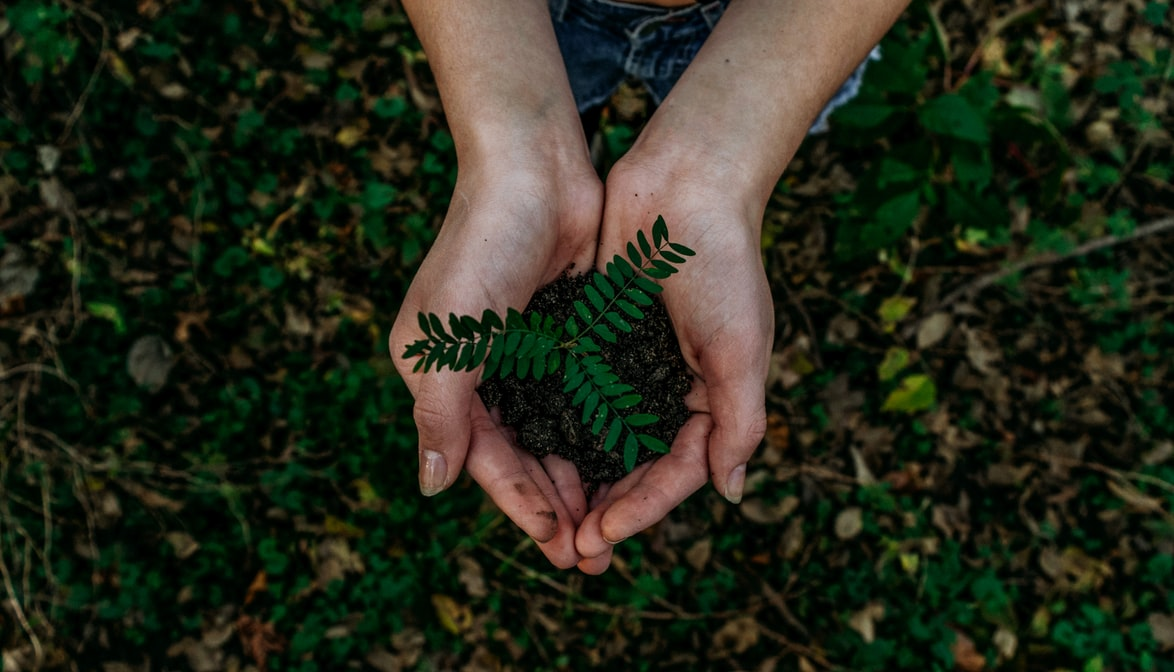
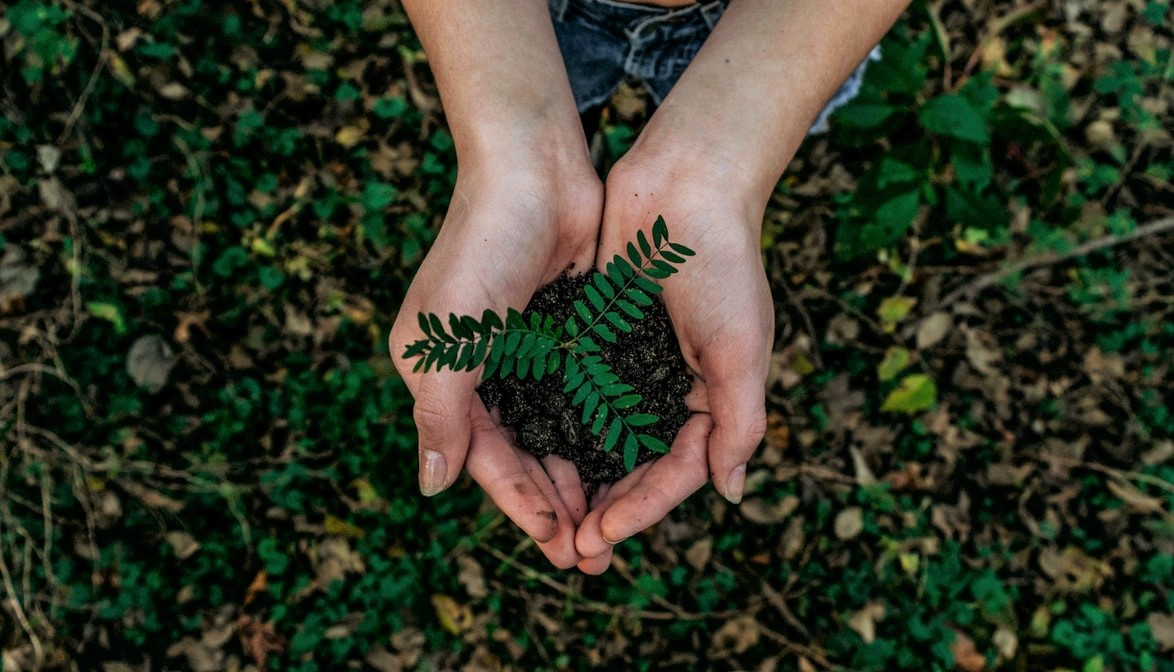
Improve title div and topnav for mobile

diff --git a/static/css/main.css b/static/css/main.css
@@ -1,3 +1,9 @@
+/* 
+To do:
+profile card layout center for < 3 cards
+title div format for small screens
+*/
+
 body{
     margin: 0px;
     font-family: 'Montserrat', Arial,Helvetica,sans-serif;
@@ -20,11 +26,12 @@ a{
     width: 100%;
     box-shadow: 0 8px 16px 0 rgba(0,0,0,0.2);
     color: white;
+    font-size: 3.5vw;
 }
 #topnav ul li{
     display: inline;
     float: left;
-    padding: 20px;
+    padding: 5%;
 }
 #topnav-title{
     background-color: #80ba52;
@@ -33,18 +40,36 @@ a{
 #topnav ul li a:link, a:active, a:hover, a:visited{
     color: white;
 }
+@media screen and (min-width: 500px) {/*large screens*/
+    #topnav ul {
+        font-size: 1.1em;
+    }
+    #topnav ul li {
+        padding: 20px;
+    }
+}
 #main{
     text-align: center;
 }
 
 #title{
     background-image: url("../images/planting.jpg");
+    background-position: center;
     background-repeat: no-repeat;
     background-size: cover;
     /* backdrop-filter: blur(8px);
     -webkit-backdrop-filter: blur(8px); */
-    font-size: 2vw;
+    font-size: 0.8em; /*small screens*/
     text-align: left;
+}
+#mainTitle{
+    font-size: 2.5em;
+    padding: 5% 0 2% 0;
+}
+@media screen and (min-width: 660px) {/*large screens*/
+    #title {
+        font-size: 2vw; 
+    }
 }
 hr{
     border: 0;
@@ -53,7 +78,7 @@ hr{
 
 #goalMsg{
     background-color: #80ba52;
-    padding: 10%;
+    padding: 10% 15%;
     text-align: left;
     color: white;
     line-height: 2em;
@@ -145,7 +170,7 @@ hr{
     padding: 2px 16px;
 }
 #supportOurMission{
-    background-image: url("../images/forest.jpg");
+    background-image: url("../images/trees-sky.jpg");
     background-repeat: no-repeat;
     background-size: cover;
     background-attachment: fixed;
@@ -160,9 +185,9 @@ hr{
     display: inline-block;
 }
 .overImage{
-    background-color: rgba(0,0,0,0.22);
+    background-color: rgba(0, 0, 0, 0.404);
     color: white;
-    padding: 100px 20%;
+    padding: 100px 15%;
     
 }
 #goalMetrics{
@@ -239,7 +264,10 @@ hr{
        max-width: calc(50% -  1em);
     }
 }
-/*3 cards*/
+/*3 cards
+
+Need to fix for fewer than 3 team members
+*/ 
 @media screen and (min-width: 68em) {
     .card {
         max-width: calc(34% - 1em);

diff --git a/templates/index.html b/templates/index.html
@@ -9,14 +9,14 @@
 {% block body %}
 <div id="title">
     <div class="overImage">
-        <h1>Tree-Plenish.</h1>
+        <h1 id="mainTitle">Tree-Plenish.</h1>
         <h1>Striving for sustainability at {{ event.school }}</h1>
         <hr />
         <div>
             <h4 style="display: inline-block">{{ event.deadline }}</h4>
             <h4 style="display: inline-block; float: right">{{ event.location }}</h4>
         </div>
-        <h4 style="text-align: center">
+        <h4 style="text-align: center; margin: 5% 10%">
             Help offset {{ event.school }}'s paper usage by requesting a tree to be planted in your yard
         </h4>
         <div style="text-align: center">
@@ -99,7 +99,7 @@
                 <img src="{{ tree.image }}" class="treeImg" alt="{{ tree.name }}">
                 <div class="container">
                     <h2>{{ tree.name }}</h2>
-                    <a href="{{ tree.link }}" class="button">Learn More</a>
+                    <a target="_blank" href="{{ tree.link }}" class="button">Learn More</a>
                     <p>{{ tree.description }}</p>                    
                 </div>
             </div>
